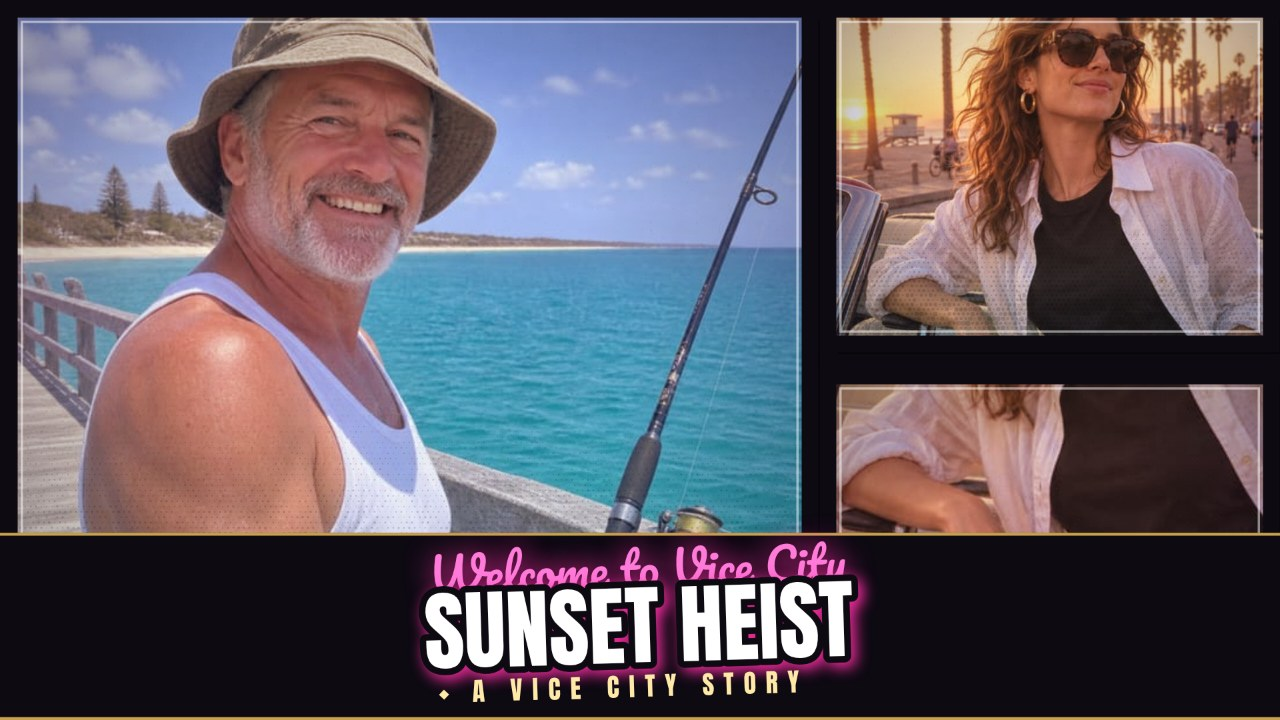
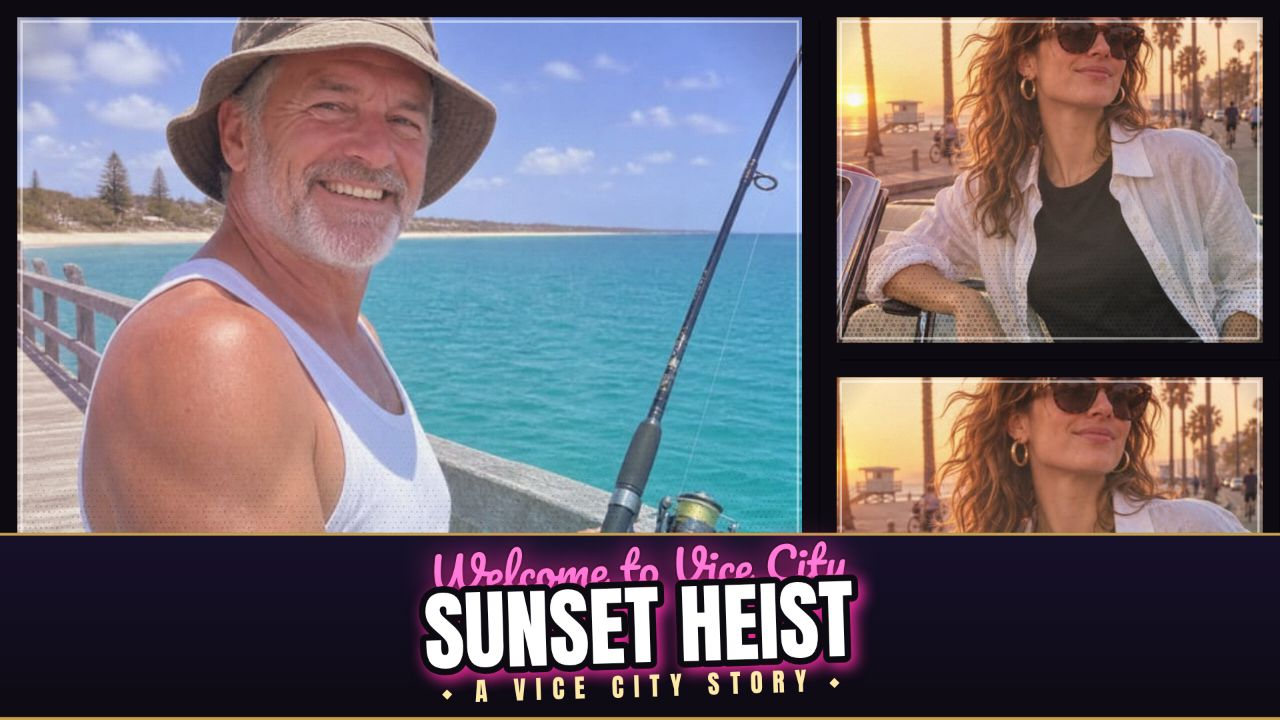
Round 5: fix cinema panel-3 crop so the face shows; fresh screenshots

diff --git a/app/src/shots.js b/app/src/shots.js
@@ -10,7 +10,10 @@ const SCENE_CROPS = {
   cinema: [
     { fx: 0.5, fy: 0.4, zoom: 1.05 },
     { fx: 0.5, fy: 0.3, zoom: 1.1 },
-    { fx: 0.4, fy: 0.6, zoom: 1.6 },
+    // The boulevard woman's face sits high and right in the photo, so
+    // the close crop for the small panel centres up there, not on the
+    // torso.
+    { fx: 0.55, fy: 0.28, zoom: 1.25 },
   ],
   mosaic: [
     { fx: 0.5, fy: 0.3, zoom: 1.0 },
